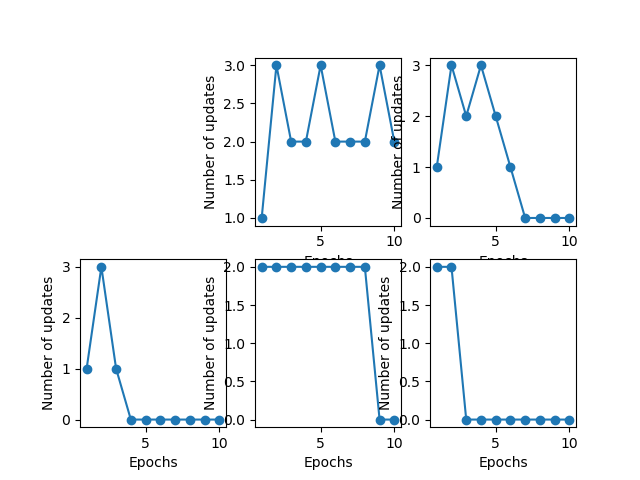
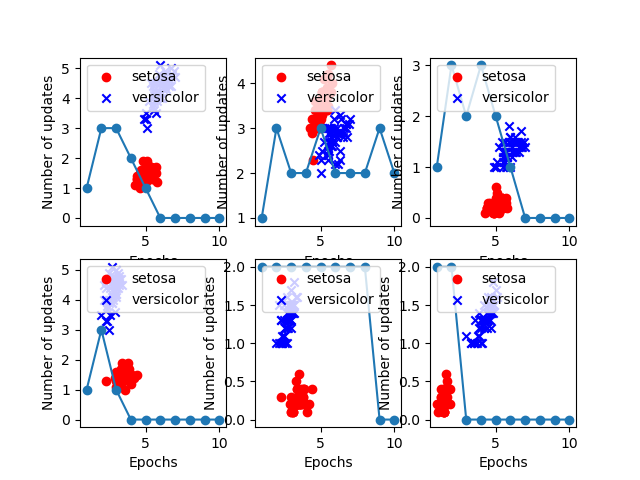
pruebas versicolor-virginica

diff --git a/Tarea1/ejercicio.py b/Tarea1/ejercicio.py
@@ -48,9 +48,16 @@ y_2 = np.where(y_2 =='Iris-virginica', -1, 1)
 x   = df.iloc[0:150, [0,1]].values
 x_1 = df.iloc[0:150, [0,2]].values
 x_2 = df.iloc[0:150, [0,3]].values
-x_3 = df.iloc[0:150, [1,0]].values
-x_4 = df.iloc[0:150, [1,2]].values
-x_5 = df.iloc[0:150, [1,3]].values
+x_3 = df.iloc[0:150, [1,2]].values
+x_4 = df.iloc[0:150, [1,3]].values
+x_5 = df.iloc[0:150, [2,3]].values
+
+print(x[0])
+print(x_1[0])
+print(x_2[0])
+print(x_3[0])
+print(x_4[0])
+print(x_5[0])
 
 #Impresion de los datos largo de sepalo y ancho de sepalo
 plt.subplot(231)
@@ -58,7 +65,7 @@ plt.scatter(x[:50, 0]   , x[:50    , 1], color='red'  , marker='o', label='setos
 plt.scatter(x[50:100, 0], x[50:100 , 1], color='blue' , marker='o', label='versicolor')
 plt.scatter(x[100:150,0], x[100:150, 1], color='green', marker='o', label='virginica' )
 plt.xlabel('largo sepalo [cm]')
-plt.ylabel('ancho petalo [cm]')
+plt.ylabel('ancho sepalo [cm]')
 plt.legend(loc='upper left')
 
 plt.subplot(232)
@@ -66,7 +73,7 @@ plt.scatter(x_1[:50, 0]   , x_1[:50    , 1], color='red'  , marker='o', label='s
 plt.scatter(x_1[50:100, 0], x_1[50:100 , 1], color='blue' , marker='o', label='versicolor')
 plt.scatter(x_1[100:150,0], x_1[100:150, 1], color='green', marker='o', label='virginica' )
 plt.xlabel('largo sepalo [cm]')
-plt.ylabel('ancho petalo [cm]')
+plt.ylabel('largo petalo [cm]')
 plt.legend(loc='upper left')
 
 plt.subplot(233)
@@ -100,18 +107,50 @@ plt.scatter(x_5[100:150,0], x_5[100:150, 1], color='green', marker='o', label='v
 plt.xlabel('largo sepalo [cm]')
 plt.ylabel('ancho petalo [cm]')
 plt.legend(loc='upper left')
-
-plt.show()
-
-
-
-
-
+plt.savefig('img/trios.png')
+#plt.show()
 
 #Perceptron
+plt.subplot(231)
 ppn = perceptron(eta=0.1, n_iter=10)
-ppn.fit(x , y)
+ppn.fit(x , y_2)
 plt.plot(range(1, len(ppn.errors_) + 1),ppn.errors_, marker='o')
 plt.xlabel('Epocas')
 plt.ylabel('Number of actualizaciones')
+
+plt.subplot(232)
+ppn = perceptron(eta=0.1, n_iter=10)
+ppn.fit(x_1 , y_2)
+plt.plot(range(1, len(ppn.errors_) + 1),ppn.errors_, marker='o')
+plt.xlabel('Epocas')
+plt.ylabel('Number of actualizaciones')
+
+plt.subplot(233)
+ppn = perceptron(eta=0.1, n_iter=10)
+ppn.fit(x_2 , y_2)
+plt.plot(range(1, len(ppn.errors_) + 1),ppn.errors_, marker='o')
+plt.xlabel('Epocas')
+plt.ylabel('Number of actualizaciones')
+
+plt.subplot(234)
+ppn = perceptron(eta=0.1, n_iter=10)
+ppn.fit(x_3 , y_2)
+plt.plot(range(1, len(ppn.errors_) + 1),ppn.errors_, marker='o')
+plt.xlabel('Epocas')
+plt.ylabel('Number of actualizaciones')
+
+plt.subplot(235)
+ppn = perceptron(eta=0.1, n_iter=10)
+ppn.fit(x_4 , y_2)
+plt.plot(range(1, len(ppn.errors_) + 1),ppn.errors_, marker='o')
+plt.xlabel('Epocas')
+plt.ylabel('Number of actualizaciones')
+
+plt.subplot(236)
+ppn = perceptron(eta=0.1, n_iter=10)
+ppn.fit(x_5 , y_2)
+plt.plot(range(1, len(ppn.errors_) + 1),ppn.errors_, marker='o')
+plt.xlabel('Epocas')
+plt.ylabel('Number of actualizaciones')
+plt.savefig('img/perceptron_versicolor_virginica.png')
 #plt.show()

diff --git a/Tarea1/tarea1.py b/Tarea1/tarea1.py
@@ -138,7 +138,7 @@ plt.subplot(231)
 plt.plot(range(1, len(ppn.errors_) + 1),ppn.errors_, marker='o')
 plt.xlabel('Epochs')
 plt.ylabel('Number of updates')
-plt.show()
+#plt.show()
 
 ppn1 = Perceptron(eta=0.1, n_iter=10)
 ppn1.fit(sl_1, sw_1)

diff --git a/Tarea1/README.md b/Tarea1/README.md
@@ -12,3 +12,5 @@ Capitúlo 2 , pagina 27
 segundo grafico no separable
 ![perceptron de todos los pares](img/perceptron_otros_pares.png)
 3) Repetir 1) y 2) con otro par de flores
+![imagen de todos los pares](img/trio.png)
+![perceptron de todos los pares](img/perceptron_versicolor_virginica.png)
